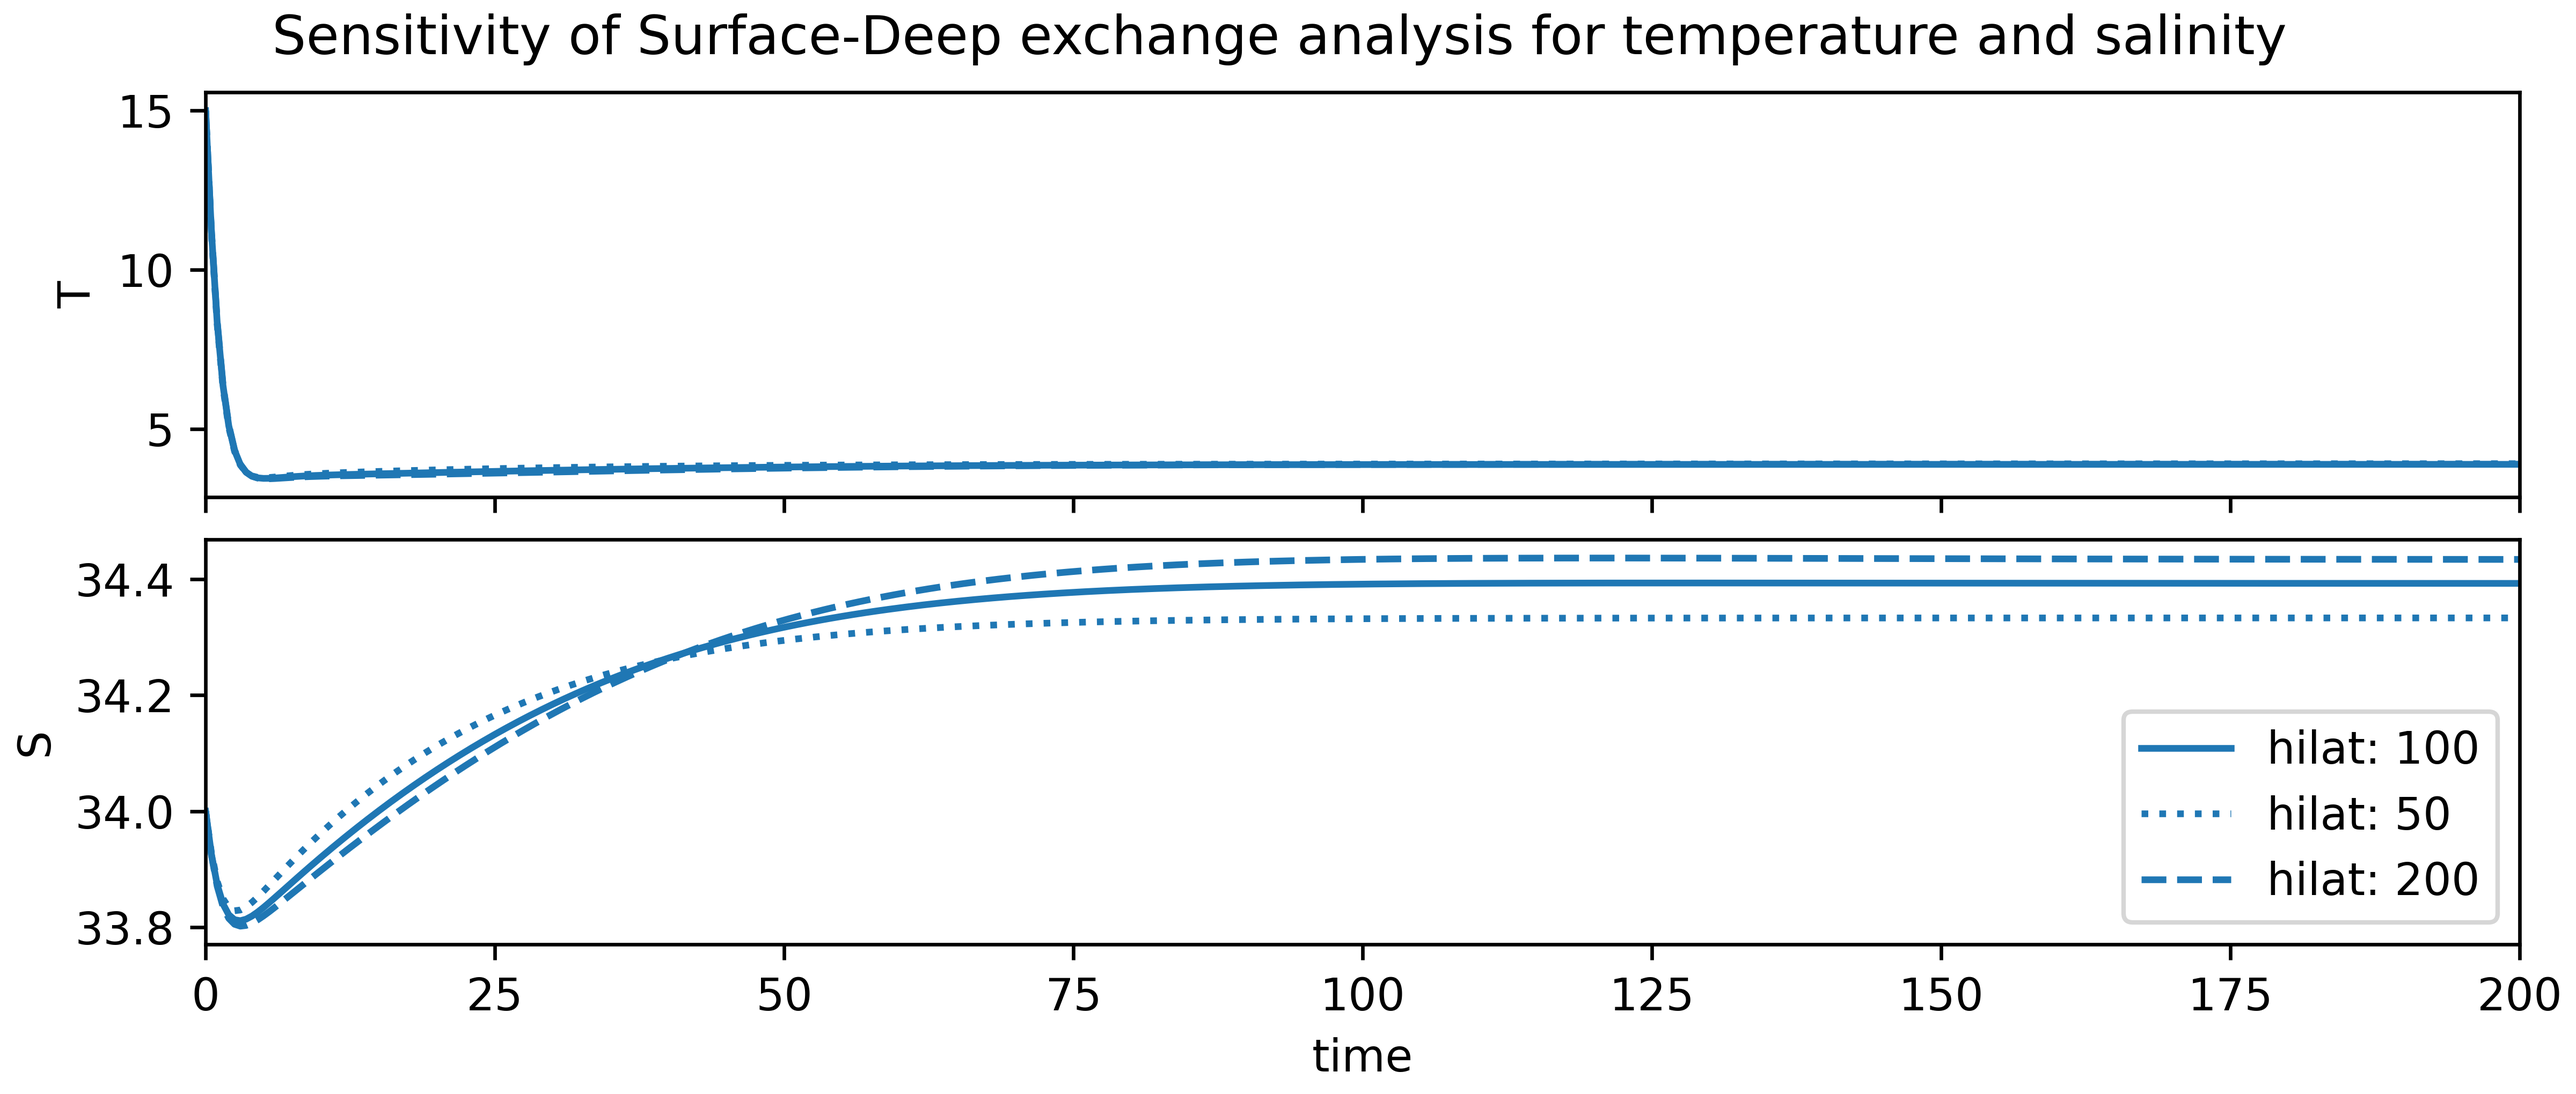
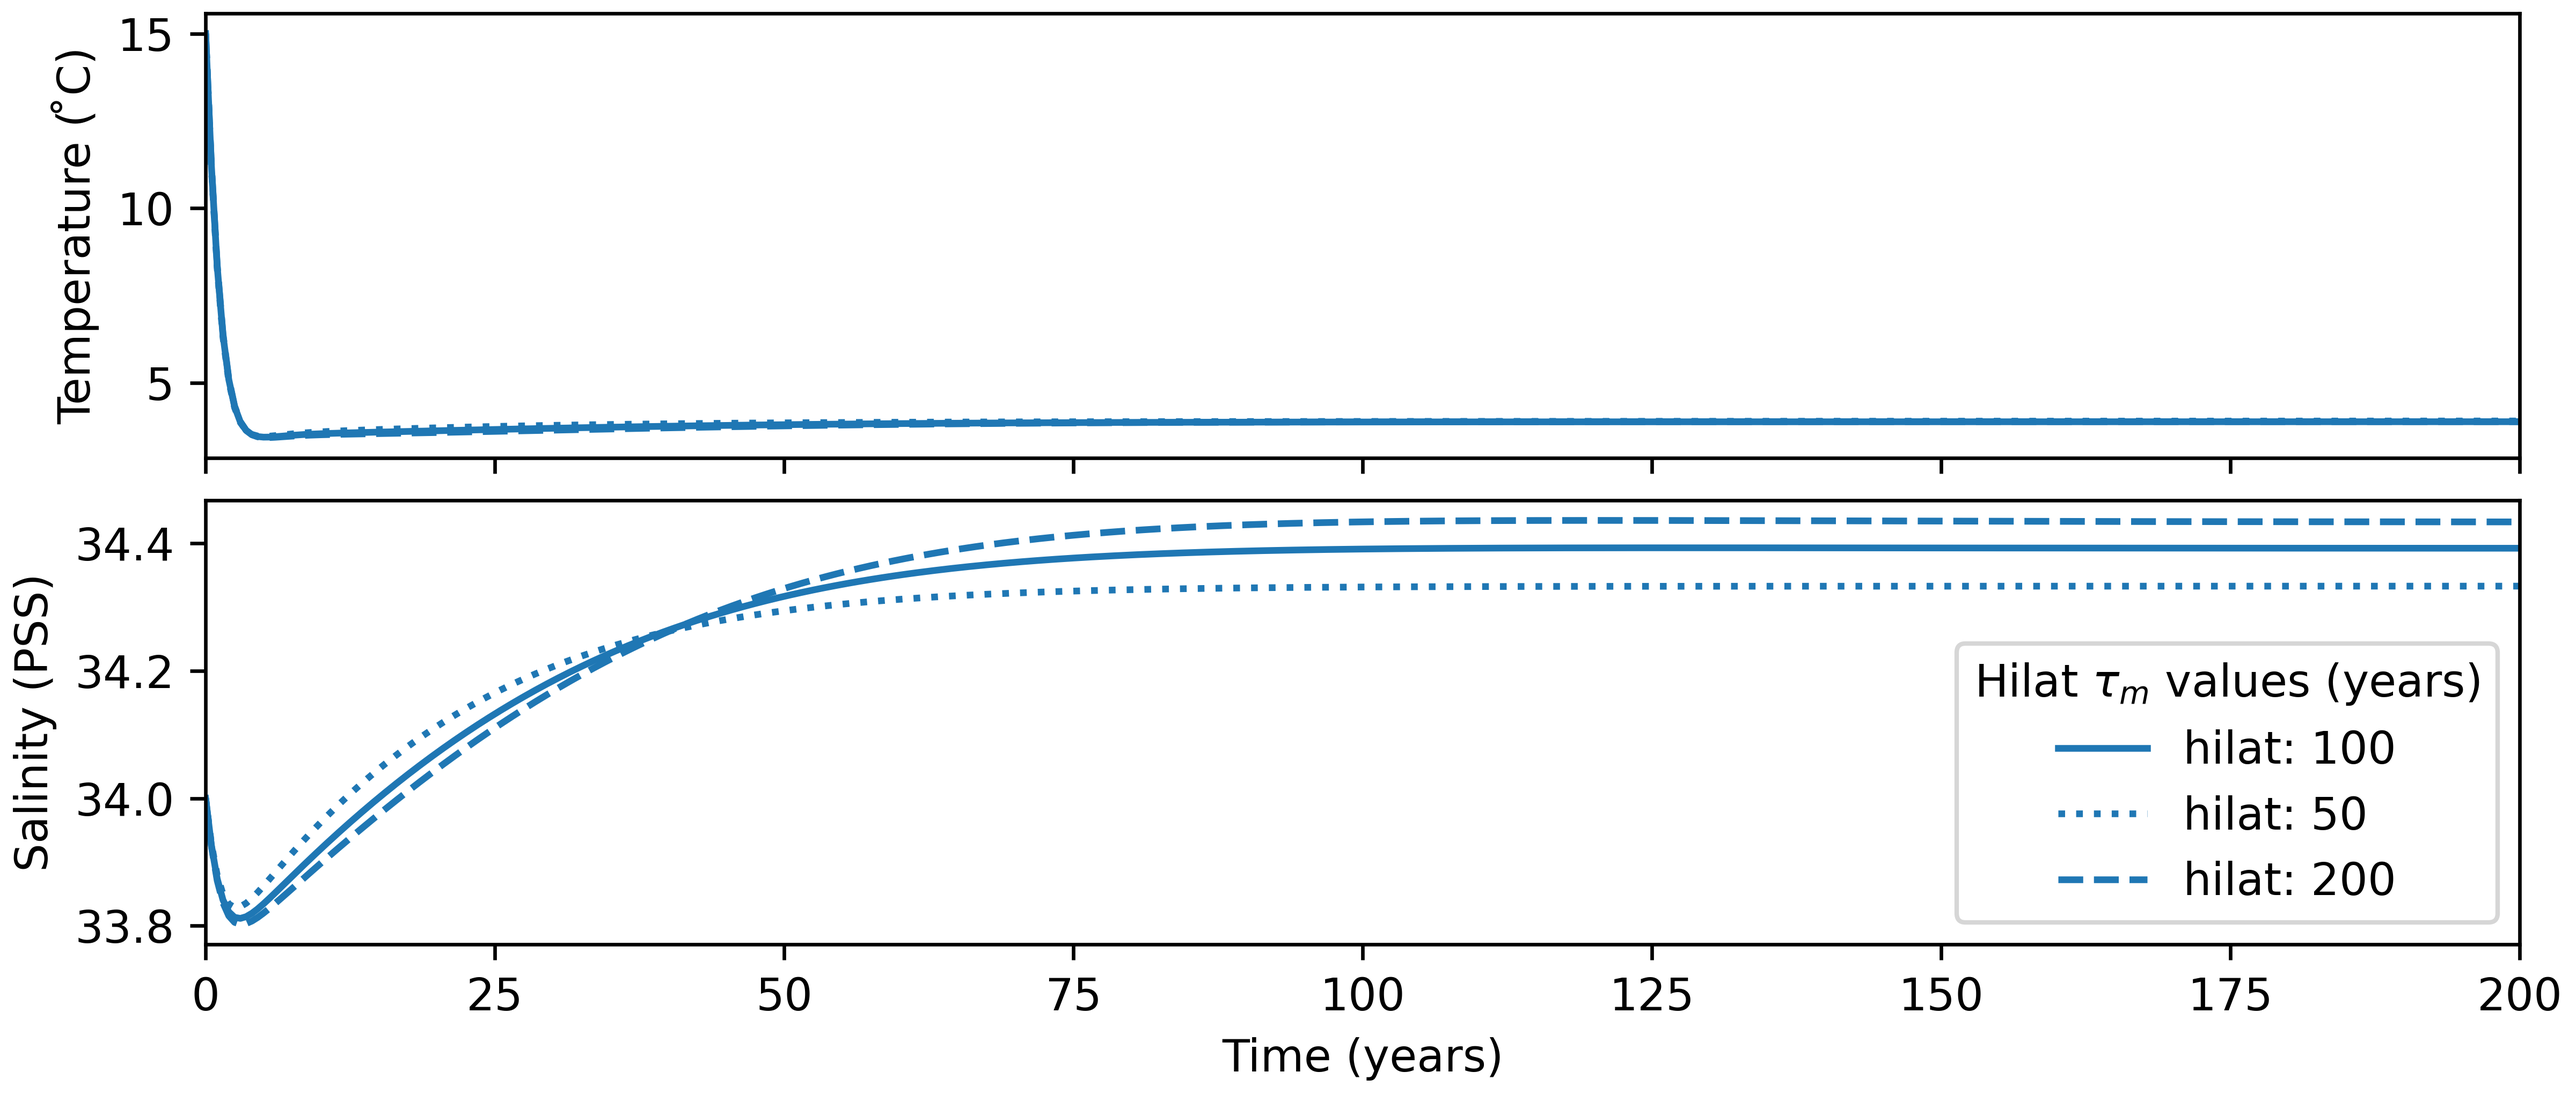
Final edits to graphs and final emission experiments for long answer question 3.3

diff --git a/LabReport6/QESLabReport6_1.py b/LabReport6/QESLabReport6_1.py
@@ -117,8 +117,16 @@ def run1():
                     - 1000)
         box['particle_sinking_time'] = box['depth'] / v
         export_efficiency = np.exp(-box['k_ballast'] * box['particle_sinking_time'])
-        plt.plot(new_fCaCO3, export_efficiency)
-        plt.plot(new_fCaCO3, export_efficiency * new_fCaCO3)
+        if box == efflolat:
+            plt.plot(new_fCaCO3, export_efficiency, c='black', ls='--', label='Low latitude Organic')
+            plt.plot(new_fCaCO3, export_efficiency * new_fCaCO3, c='black', ls='-', label='Low latitude CaCO3')
+        else:
+            plt.plot(new_fCaCO3, export_efficiency, c='blue', ls='--', label='High latitude Organic')
+            plt.plot(new_fCaCO3, export_efficiency * new_fCaCO3, c='blue', ls='-', label='High latitude CaCO3')
+
+    plt.legend()
+    plt.xlabel('$f_{CaCO_3}$ (unitless)')
+    plt.ylabel('Export efficiency (unitless)')
 
     plt.savefig('QESLabReport16_1', dpi=600)
 
@@ -130,57 +138,74 @@ def run2():
 
     odicts = create_dicts()
 
-    tmax = 2000  # how many years to simulate (yr)
+    tmax = 3000  # how many years to simulate (yr)
     dt = 0.5  # the time step of the simulation (yr)
     time = np.arange(0, tmax + dt, dt)  # the time axis for the model
 
     emit_atmos = odicts[3].copy()  # create a copy of the original atmosphere input dictionary
     emit_atmos['GtC_emissions'] = np.zeros(time.shape)  # creat an array to hold the emission scenario
-    emit_atmos['GtC_emissions'][(time > 800) & (time <= 1000)] = 8.0
+    emit_atmos['GtC_emissions'][(time > 400) & (time <= 600)] = 8.0
 
     odicts[3] = emit_atmos
 
-    otime, odicts = original_model(odicts, 2000, 0.5)
+    otime, odicts = original_model(odicts, 3000, 0.5)
     ololat, ohilat, odeep, oatmos = odicts
 
 
     oadicts = create_dicts()
 
-    tmax = 2000  # how many years to simulate (yr)
+    tmax = 3000  # how many years to simulate (yr)
     dt = 0.5  # the time step of the simulation (yr)
     time = np.arange(0, tmax + dt, dt)  # the time axis for the model
 
     emit_atmos = oadicts[3].copy()  # create a copy of the original atmosphere input dictionary
     emit_atmos['GtC_emissions'] = np.zeros(time.shape)  # creat an array to hold the emission scenario
-    emit_atmos['GtC_emissions'][(time > 800) & (time <= 1000)] = 8.0
+    emit_atmos['GtC_emissions'][(time > 400) & (time <= 600)] = 8.0
 
     oadicts[3] = emit_atmos
 
-    oatime, oadicts = acidification_model(oadicts, 2000, 0.5)
+    oatime, oadicts = acidification_model(oadicts, 3000, 0.5)
     oalolat, oahilat, oadeep, oaatmos = oadicts
 
 
     bldicts = create_dicts()
 
-    tmax = 2000  # how many years to simulate (yr)
+    tmax = 3000  # how many years to simulate (yr)
     dt = 0.5  # the time step of the simulation (yr)
     time = np.arange(0, tmax + dt, dt)  # the time axis for the model
 
     emit_atmos = bldicts[3].copy()  # create a copy of the original atmosphere input dictionary
     emit_atmos['GtC_emissions'] = np.zeros(time.shape)  # creat an array to hold the emission scenario
-    emit_atmos['GtC_emissions'][(time > 800) & (time <= 1000)] = 8.0
+    emit_atmos['GtC_emissions'][(time > 400) & (time <= 600)] = 8.0
 
     bldicts[3] = emit_atmos
 
-    bltime, bldicts = ballasting_model(bldicts, 2000, 0.5)
+    bltime, bldicts = ballasting_model(bldicts, 3000, 0.5)
     bllolat, blhilat, bldeep, blatmos = bldicts
-    vars = ['DIC', 'TA', 'pCO2', 'f_CaCO3', 'GtC_emissions']
+    vars = ['DIC', 'TA', 'pCO2', 'f_CaCO3']
 
 
     fig, axs = plot.boxes(otime, vars, ololat, ohilat, odeep, oatmos)
 
     plot.boxes(oatime, vars, oalolat, oahilat, oadeep, oaatmos, axs=axs, ls=':', label='Acidification')
     plot.boxes(bltime, vars, bllolat, blhilat, bldeep, blatmos, axs=axs, ls='--', label='Ballasting')
+
+    axs[0].set_ylabel('DIC ($mol \; m^{-3}$)')
+    axs[1].set_ylabel('TA ($mol \; m^{-3}$)')
+    axs[2].set_ylabel('$pCO_2$ (ppm)')
+    axs[3].set_ylabel('$f_{CaCO_3}$ (unitless)')
+    axs[3].set_xlabel('Time (years)')
+
+    axs[2].legend(title='Model', loc='right')
+    axs[3].legend(title='Box', loc='right')
+
+    emission = np.linspace(400, 600, 200)
+    y_min = [1.5, 2.2, 200, -0.2]
+    y_max = [2.5, 2.4, 1200, 0.4]
+
+    for i in range(4):
+        axs[i].fill_between(emission, y_max[i], y_min[i], color='lightgray')
+        axs[i].set_ylim(y_min[i], y_max[i])
 
     # y_min = [200, 2.21, 1.9]
     # y_max = [1200, 2.32, 2.45]
@@ -191,12 +216,152 @@ def run2():
 
     plt.savefig('QESLabReport16_2', dpi=600)
 
+
+    #print(ohilat['DIC'][400], ololat['DIC'][400], odeep['DIC'][400])
+    ##print(ohilat['TA'][400], ololat['TA'][400], odeep['TA'][400])
+    #print(ohilat['pCO2'][400], ololat['pCO2'][400], oatmos['pCO2'][400])
+    #print(oahilat['DIC'][400], oalolat['DIC'][400], oadeep['DIC'][400])
+    #print(oahilat['TA'][400], oalolat['TA'][400], oadeep['TA'][400])
+    #print(oahilat['pCO2'][400], oalolat['pCO2'][400], oaatmos['pCO2'][400])
+    #print(blhilat['DIC'][400], bllolat['DIC'][400], bldeep['DIC'][400])
+    #print(blhilat['TA'][400], bllolat['TA'][400], bldeep['TA'][400])
+    #print(blhilat['pCO2'][400], bllolat['pCO2'][400], blatmos['pCO2'][400])
+
+    #print(ohilat['DIC'][10000], ololat['DIC'][10000], odeep['DIC'][10000])
+    #print(ohilat['TA'][10000], ololat['TA'][10000], odeep['TA'][10000])
+    #print(ohilat['pCO2'][10000], ololat['pCO2'][10000], oatmos['pCO2'][10000])
+    #print(oahilat['DIC'][10000], oalolat['DIC'][10000], oadeep['DIC'][10000])
+    #print(oahilat['TA'][10000], oalolat['TA'][10000], oadeep['TA'][10000])
+    #print(oahilat['pCO2'][10000], oalolat['pCO2'][10000], oaatmos['pCO2'][10000])
+    #print(blhilat['DIC'][10000], bllolat['DIC'][10000], bldeep['DIC'][10000])
+    #print(blhilat['TA'][10000], bllolat['TA'][10000], bldeep['TA'][10000])
+    #print(blhilat['pCO2'][10000], bllolat['pCO2'][10000], blatmos['pCO2'][10000])
+
+    #print(ohilat['V'])
+    #print(ololat['V'])
+    #print(odeep['V'])
+
     plt.show()
 
 
 def run3():
+    bldicts1 = create_dicts()
+
+    tmax = 1000  # how many years to simulate (yr)
+    dt = 0.5  # the time step of the simulation (yr)
+    time = np.arange(0, tmax + dt, dt)  # the time axis for the model
+
+    emit_atmos = bldicts1[3].copy()  # create a copy of the original atmosphere input dictionary
+    emit_atmos['GtC_emissions'] = np.zeros(time.shape)  # creat an array to hold the emission scenario
+    emit_atmos['GtC_emissions'][(time > 200) & (time <= 400)] = 8.0
+
+    bldicts1[3] = emit_atmos
+
+    bltime1, bldicts1 = ballasting_model(bldicts1, 1000, 0.5)
+    bllolat1, blhilat1, bldeep1, blatmos1 = bldicts1
+
+    vars = ['pCO2', 'GtC_emissions']
+
+    fig, axs = plot.boxes(bltime1, vars, bllolat1, blhilat1, bldeep1, blatmos1)
+
+    years_list = [100, 25]
+    linestyles = [':', '--']
+
+    for i in range(2):
+        bldicts2 = create_dicts()
+
+        tmax = 1000  # how many years to simulate (yr)
+        dt = 0.5  # the time step of the simulation (yr)
+        time = np.arange(0, tmax + dt, dt)  # the time axis for the model
+
+        emission_amount = 1600 / years_list[i]
+
+        emit_atmos = bldicts2[3].copy()  # create a copy of the original atmosphere input dictionary
+        emit_atmos['GtC_emissions'] = np.zeros(time.shape)  # creat an array to hold the emission scenario
+        emit_atmos['GtC_emissions'][(time > 300 - (years_list[i]/2)) & (time <= 300 + (years_list[i]/2))] = emission_amount
+
+        bldicts2[3] = emit_atmos
+
+        bltime2, bldicts2 = ballasting_model(bldicts2, 1000, 0.5)
+        bllolat2, blhilat2, bldeep2, blatmos2 = bldicts2
+
+        vars = ['pCO2', 'GtC_emissions']
+
+        plot.boxes(bltime2, vars, bllolat2, blhilat2, bldeep2, blatmos2, axs=axs, ls=linestyles[i], label=f'{years_list[i]} years')
+
+    axs[0].set_ylabel('$pCO_2$ (ppm)')
+    axs[1].set_ylabel('Carbon Emissions (GtC)')
+    axs[1].set_xlabel('Time (years)')
+    axs[0].legend(title='Emission duration (years)', loc='right')
+    axs[1].legend(title='Box', loc='right')
+
+    plt.savefig('QESLabReport16_3', dpi=600)
+
+    plt.show()
+
+
+def run4():
+    bldicts1 = create_dicts()
+
+    tmax = 1000  # how many years to simulate (yr)
+    dt = 0.5  # the time step of the simulation (yr)
+    time = np.arange(0, tmax + dt, dt)  # the time axis for the model
+
+    emit_atmos = bldicts1[3].copy()  # create a copy of the original atmosphere input dictionary
+    emit_atmos['GtC_emissions'] = np.zeros(time.shape)  # creat an array to hold the emission scenario
+    emit_atmos['GtC_emissions'][(time > 200) & (time <= 400)] = 8.0
+
+    bldicts1[3] = emit_atmos
+
+    bltime1, bldicts1 = ballasting_model(bldicts1, 1000, 0.5)
+    bllolat1, blhilat1, bldeep1, blatmos1 = bldicts1
+
+    vars = ['pCO2', 'GtC_emissions']
+
+    fig, axs = plot.boxes(bltime1, vars, bllolat1, blhilat1, bldeep1, blatmos1, ls='-', lw=0.9)
+
+
+    bldicts2 = create_dicts()
+
+    tmax = 1000  # how many years to simulate (yr)
+    dt = 0.5  # the time step of the simulation (yr)
+    time = np.arange(0, tmax + dt, dt)  # the time axis for the model
+
+    emit_atmos = bldicts2[3].copy()  # create a copy of the original atmosphere input dictionary
+    emit_atmos['GtC_emissions'] = np.zeros(time.shape)  # creat an array to hold the emission scenario
+    emission_phase = np.random.dirichlet(np.ones(400), size=1)
+    emission_phase_array = emission_phase.reshape(-1)
+    print(sum(emission_phase_array))
+    emit_atmos['GtC_emissions'][(time > 200) & (time <= 400)] = emission_phase_array * 3200
+
+    bldicts2[3] = emit_atmos
+
+    bltime2, bldicts2 = ballasting_model(bldicts2, 1000, 0.5)
+    bllolat2, blhilat2, bldeep2, blatmos2 = bldicts2
+
+    vars = ['pCO2', 'GtC_emissions']
+
+    plot.boxes(bltime2, vars, bllolat2, blhilat2, bldeep2, blatmos2, axs=axs, ls=':', label='random')
+
+    axs[0].set_ylabel('$pCO_2$ (ppm)')
+    axs[1].set_ylabel('Carbon Emissions (GtC)')
+    axs[1].set_xlabel('Time (years)')
+    axs[0].legend(title='Emission profile', loc='right')
+    axs[0].legend(title='Box', loc='right')
+
+    emission = np.linspace(200, 400, 200)
+    y_min = [0, 0]
+    y_max = [1200, 15]
+
+    for i in range(2):
+        axs[i].fill_between(emission, y_max[i], y_min[i], color='lightgray')
+        axs[i].set_ylim(y_min[i], y_max[i])
+
+    plt.savefig('QESLabReport16_4', dpi=600)
+
     plt.show()
 
 
 if __name__ == "__main__":
-    run1()
+    run3()
+    run4()

diff --git a/LabReport5/QESLabReport5_1.py b/LabReport5/QESLabReport5_1.py
@@ -252,6 +252,9 @@ def run():
     # axs[-1].plot(time, emit_atmos['GtC_emissions'], c='orange')
     # axs[-1].legend(fontsize=8)
 
+    axs[1].legend(title='Model', loc='right')
+    axs[2].legend(title='Box')
+
     emission = np.linspace(200, 400, 200)
 
     y_min = [200, 2.21, 1.9]
@@ -261,16 +264,21 @@ def run():
         axs[i].fill_between(emission, y_max[i], y_min[i], color='lightgray')
         axs[i].set_ylim(y_min[i], y_max[i])
 
-    for k, v in helpers.get_last_values(hilat, lolat, atmos).items():
-        print(k, v['pCO2'])
-    for k, v in helpers.get_last_values(X1_hilat, X1_lolat, X1_atmos).items():
-        print(k, v['pCO2'])
-    for k, v in helpers.get_last_values(X2_hilat, X2_lolat, X2_atmos).items():
-        print(k, v['pCO2'])
+    for k, v in helpers.get_last_values(hilat, lolat, deep).items():
+        print(k, v['DIC'])
+    for k, v in helpers.get_last_values(X1_hilat, X1_lolat, X1_deep).items():
+        print(k, v['DIC'])
+    for k, v in helpers.get_last_values(X2_hilat, X2_lolat, X2_deep).items():
+        print(k, v['DIC'])
 
-    print(atmos['pCO2'][400])
-    print(X1_atmos['pCO2'][400])
-    print(X2_atmos['pCO2'][400])
+    print(hilat['TA'][400], lolat['TA'][400], deep['TA'][400])
+    print(X1_hilat['TA'][400], X1_lolat['TA'][400], X1_deep['TA'][400])
+    print(X2_hilat['TA'][400], X2_lolat['TA'][400], X2_deep['TA'][400])
+
+    axs[0].set_ylabel(r'$pCO_2$ (ppm)')
+    axs[1].set_ylabel(r'TA ($mol \; m^{-3}$)')
+    axs[2].set_ylabel(r'DIC ($mol \; m^{-3}$)')
+    axs[2].set_xlabel('Time (years)')
 
     plt.savefig('QESLabReport15', dpi=600)
 

diff --git a/LabReport3/QESLabReport3_2.py b/LabReport3/QESLabReport3_2.py
@@ -148,20 +148,23 @@ time, lolat, hilat3, deep = ocean_model(orig_lolat, orig_hilat, init_deep, 1000,
 init_hilat = orig_hilat
 
 fig, axs = plot.boxes(time, ['T', 'S'], hilat, ls='solid', label='100')
-fig, axs = plot.boxes(time, ['T', 'S'], hilat2, axs=axs, ls='dotted', label='50')
-fig, axs = plot.boxes(time, ['T', 'S'], hilat3, axs=axs, ls='dashed', label='200')
+fig1, axs = plot.boxes(time, ['T', 'S'], hilat2, axs=axs, ls='dotted', label='50')
+fig2, axs = plot.boxes(time, ['T', 'S'], hilat3, axs=axs, ls='dashed', label='200')
 
-plt.legend()
+plt.legend(title=r'Hilat $\tau_m$ values (years)')
 axs[0].set_xlim(0, 200)
 axs[1].set_xlim(0, 200)
+axs[0].set_ylabel('Temperature ( ̊C)')
+axs[1].set_ylabel('Salinity (PSS)')
+axs[1].set_xlabel('Time (years)')
+
+
 
 model_vars = ['T', 'S']
 for var in model_vars:
     print(var)
     for box in [hilat, lolat, deep]:
         print(f"  {box['name']}: {box[var][-1]:.2f}")
-
-plt.suptitle('Sensitivity of Surface-Deep exchange analysis for temperature and salinity ')
 
 plt.savefig('QESLabReport13', dpi=600)
 

diff --git a/LabReport4/QESLabReport4_3.py b/LabReport4/QESLabReport4_3.py
@@ -88,7 +88,20 @@ dicts = (init_lolat, init_hilat, init_deep, emit_atmos)
 time, output = ocean_model(dicts, tmax, dt)
 final_lolat, final_hilat, final_deep, final_atmos = output
 
-fig, axs = plot.boxes(time, ['pCO2', 'DIC', 'GtC_emissions'], final_lolat, final_hilat, final_deep, final_atmos)
+fig, axs = plot.boxes(time, ['pCO2', 'DIC'], final_lolat, final_hilat, final_deep, final_atmos)
+
+
+emission = np.linspace(500, 700, 200)
+y_min = [1000, 2.21]
+y_max = [2200, 2.4]
+
+for i in range(2):
+    axs[i].fill_between(emission, y_max[i], y_min[i], color='lightgray')
+    axs[i].set_ylim(y_min[i], y_max[i])
+
+axs[0].set_ylabel(r'$pCO_2$ (ppm)')
+axs[1].set_ylabel(r'DIC ($mol \; m^{-3}$)')
+axs[1].set_xlabel('Time (years)')
 
 plt.savefig('QESLabReport14', dpi=600)
 

diff --git a/LabReport2/QESLabReport2_3.py b/LabReport2/QESLabReport2_3.py
@@ -81,13 +81,12 @@ for i in axs:
 
 axs[0].legend()
 axs[1].legend()
-axs[2].legend()
+axs[2].legend(title='Atmosphere Ocean Relaxation timescale (years)', loc='right')
 axs[0].set_ylabel('Temperature ( ̊C)')
 axs[1].set_ylabel('Salinity (PSS)')
 axs[2].set_ylabel('Latitudinal flow strength ($m^{3}yr^{-1}$)')
 axs[2].set_xlabel('Time (years)')
-plt.suptitle("Sensitivity analysis of salinity and temperature for different timescales of atmosphere"
-             "ocean relaxation", size='x-large')
+
 
 plt.savefig('QESLabReport12', dpi=600)
 

diff --git a/LabReport1/QESLabReport1_3.py b/LabReport1/QESLabReport1_3.py
@@ -55,10 +55,6 @@ axs[0].fill_between(steps, 27, 15, color='lightgray')
 axs[0].fill_between(steps, -5, 5, color='lightgray')
 axs[2].legend(title='Values of D', ncols=3, fancybox=True)
 axs[1].legend()
-axs[0].text(60, 10, "Low latitude values shown by the grey box above and high latitude ones shown in the grey box below")
-
-plt.suptitle('Effect of initial temperature on equilibrium temperature values '
-             'for different values of the diffusion constant', size='x-large')
 
 for i in axs:
     i.set_xlim(0, 350)
